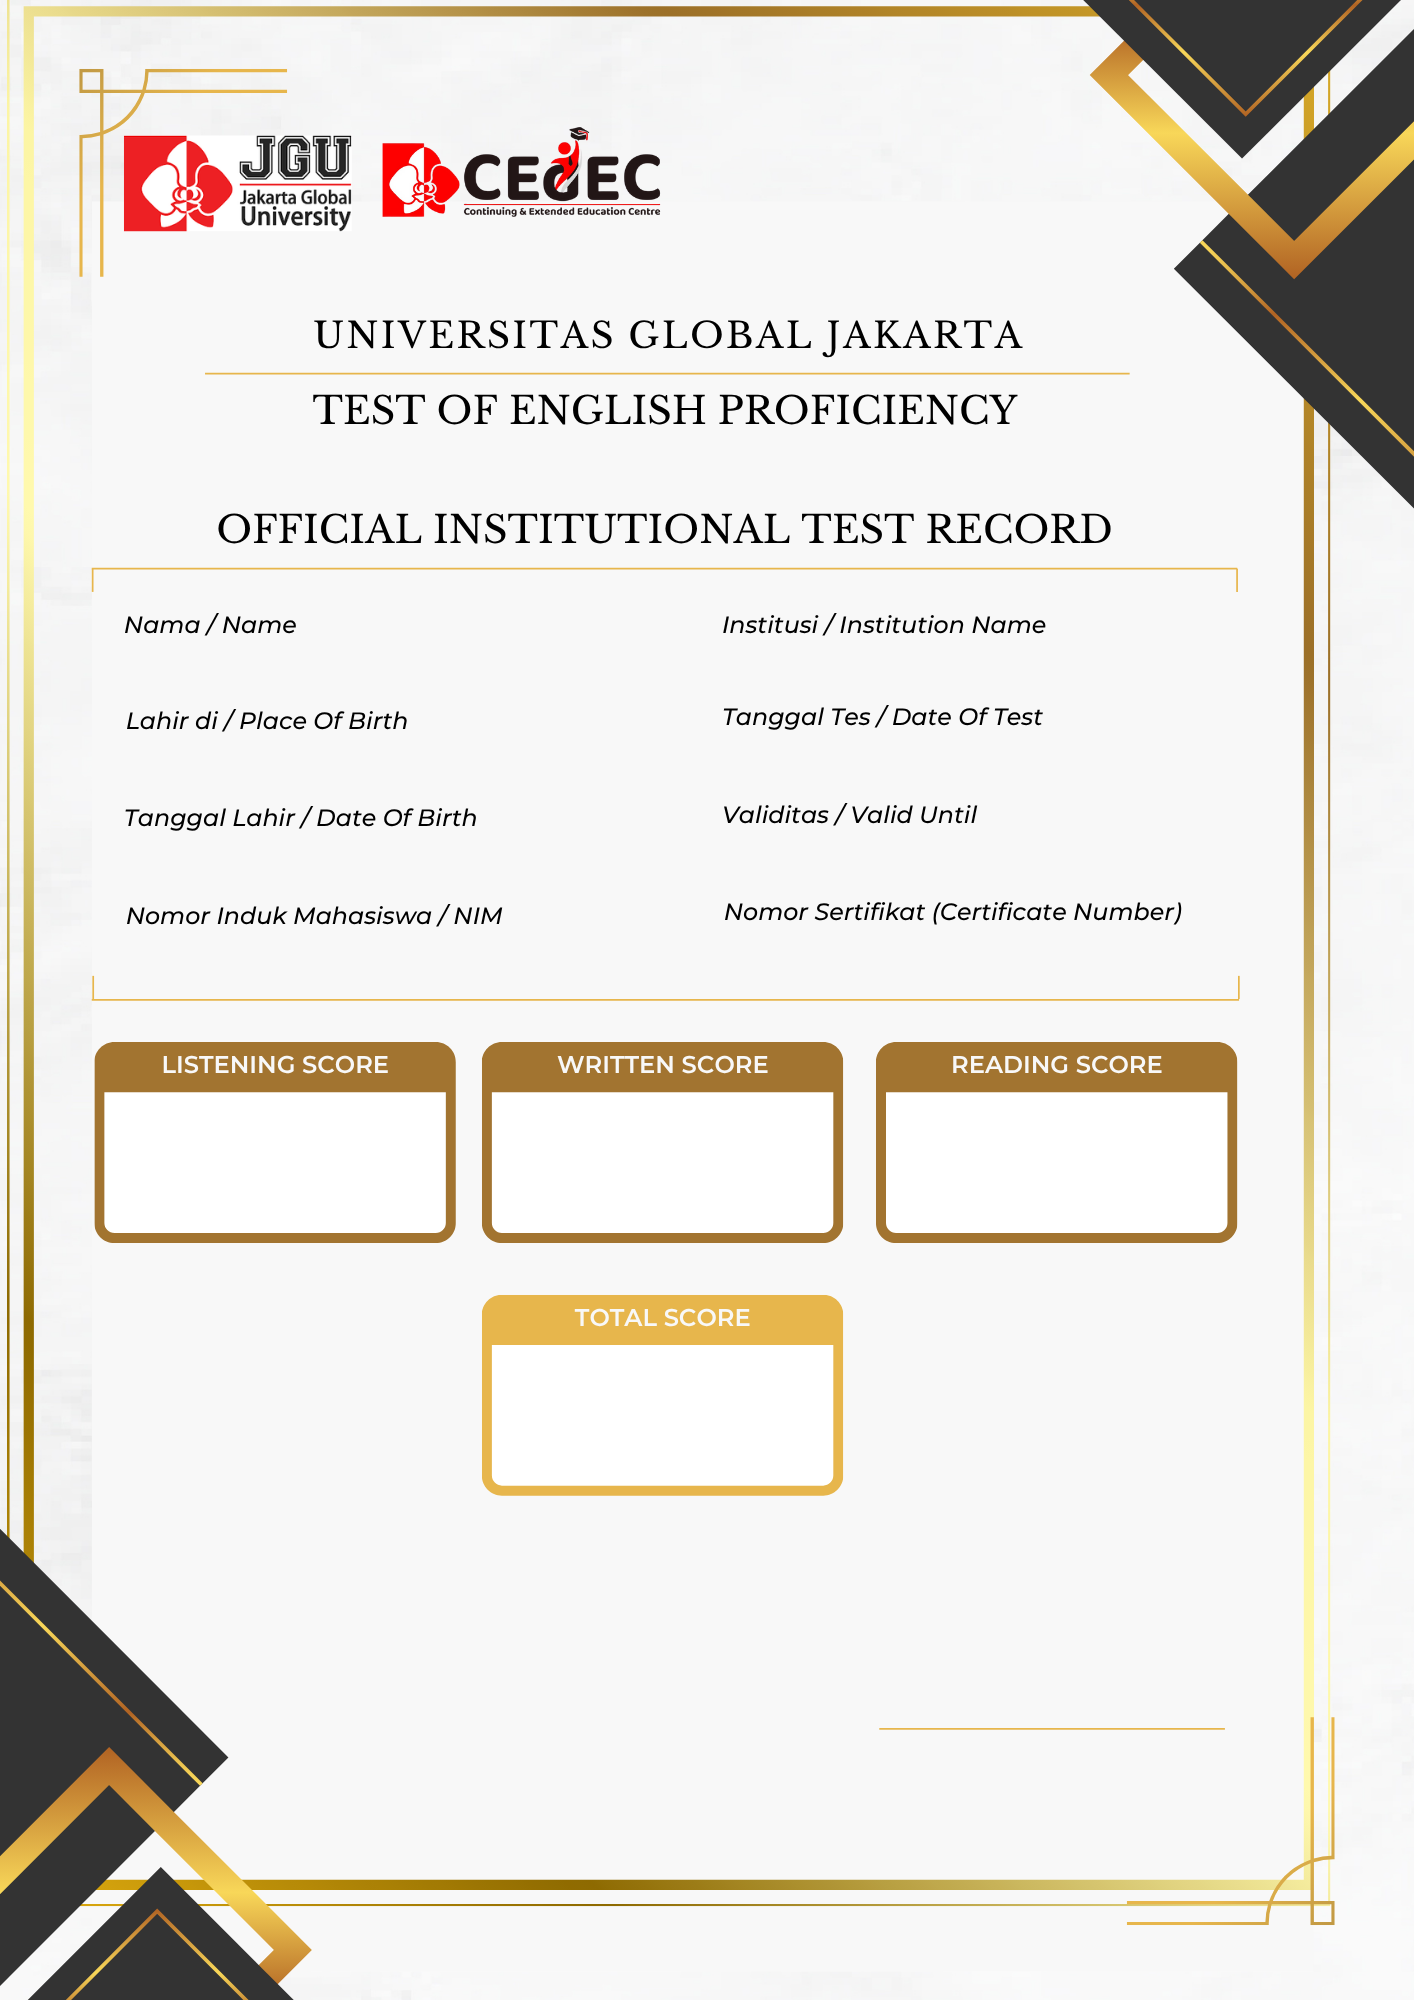
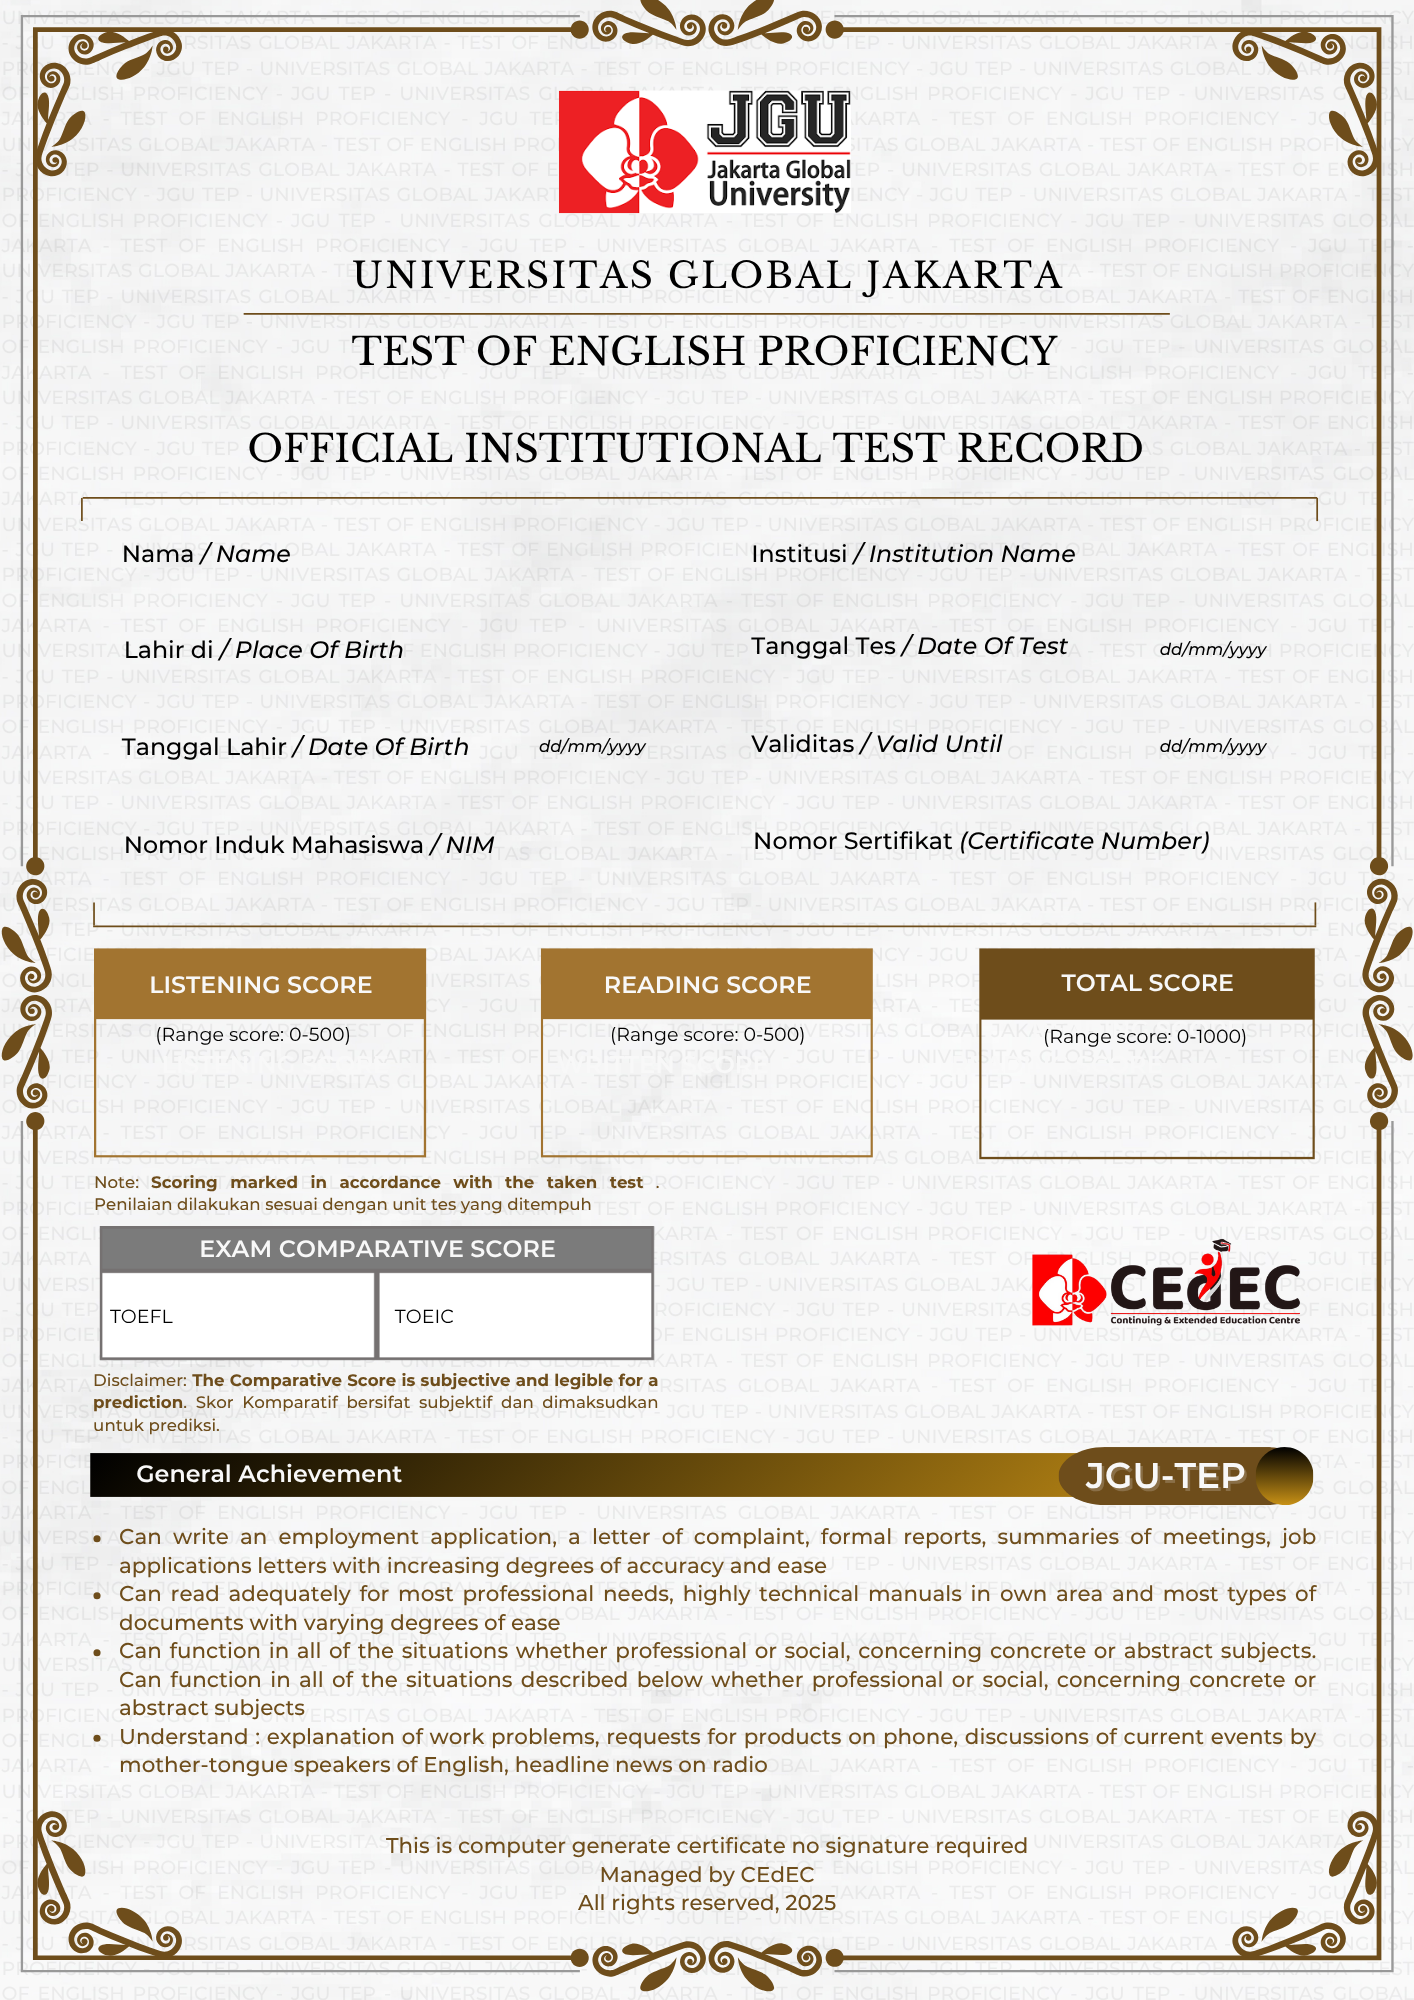
update template

Changed region(s): [[0.0, 0.0, 1.0, 1.0], [0.529, 0.31, 0.7468, 0.372], [0.0934, 0.248, 0.1245, 0.279]]

diff --git a/app/Http/Controllers/CertificateController.php b/app/Http/Controllers/CertificateController.php
@@ -79,12 +79,13 @@ class CertificateController extends Controller
     public function storeScoreAndGenerate(Request $request, $id, Generator $qr)
     {
         $request->validate([
-            'listening' => 'required|numeric|min:0|max:100',
-            'structure' => 'required|numeric|min:0|max:100',
-            'reading' => 'required|numeric|min:0|max:100',
+            'listening' => 'required|numeric|min:0|max:500',
+            'reading' => 'required|numeric|min:0|max:500',
+            'toefl' => 'required|numeric|min:0|max:500',
+            'toeic' => 'required|numeric|min:0|max:500',
         ]);
 
-        $totalScore = $request->listening + $request->structure + $request->reading;
+        $totalScore = $request->listening + $request->reading;
 
         $participant = CreateCertificate::findOrFail($id);
 
@@ -98,19 +99,20 @@ class CertificateController extends Controller
         $fontPath = public_path('fonts/OpenSans-Regular.ttf');
         if (!file_exists($fontPath)) $fontPath = null;
 
-        $img->text(strtoupper($participant->name), 122, 655, fn($f) => $this->applyFont($f, $fontPath));
-        $img->text(strtoupper($participant->birth_place), 122, 750, fn($f) => $this->applyFont($f, $fontPath));
-        $img->text(strtoupper($participant->birth_date), 122, 850, fn($f) => $this->applyFont($f, $fontPath));
-        $img->text(strtoupper($participant->student_id), 122, 945, fn($f) => $this->applyFont($f, $fontPath));
-        $img->text(strtoupper($participant->institution), 720, 655, fn($f) => $this->applyFont($f, $fontPath));
-        $img->text($participant->certificate_number, 720, 940, fn($f) => $this->applyFont($f, $fontPath));
-        $img->text(Carbon::parse($participant->test_date)->format('d/m/Y'), 720, 745, fn($f) => $this->applyFont($f, $fontPath));
-        $img->text(strtoupper($participant->validity), 720, 845, fn($f) => $this->applyFont($f, $fontPath));
+        $img->text(strtoupper($participant->name), 122, 580, fn($f) => $this->applyFont($f, $fontPath));
+        $img->text(strtoupper($participant->birth_place), 122, 675, fn($f) => $this->applyFont($f, $fontPath));
+        $img->text(Carbon::parse($participant->birth_date)->format('d/m/Y'), 122, 775, fn($f) => $this->applyFont($f, $fontPath));
+        $img->text(strtoupper($participant->student_id), 122, 870, fn($f) => $this->applyFont($f, $fontPath));
+        $img->text(strtoupper($participant->institution), 750, 580, fn($f) => $this->applyFont($f, $fontPath));
+        $img->text($participant->certificate_number, 750, 865, fn($f) => $this->applyFont($f, $fontPath));
+        $img->text(Carbon::parse($participant->test_date)->format('d/m/Y'), 750, 675, fn($f) => $this->applyFont($f, $fontPath));
+        $img->text(Carbon::parse($participant->validity)->format('d/m/Y'),750, 770, fn($f) => $this->applyFont($f, $fontPath));
 
-        $img->text($request->listening, 255, 1130, fn($f) => $this->applyFont($f, $fontPath, 80, 'center'));
-        $img->text($request->structure, 655, 1130, fn($f) => $this->applyFont($f, $fontPath, 80, 'center'));
-        $img->text($request->reading, 1055, 1130, fn($f) => $this->applyFont($f, $fontPath, 80, 'center'));
-        $img->text($totalScore, 655, 1390, fn($f) => $this->applyFont($f, $fontPath, 80, 'center'));
+        $img->text($request->listening, 255, 1065, fn($f) => $this->applyFont($f, $fontPath, 80, 'center'));
+        $img->text($request->reading, 700, 1065, fn($f) => $this->applyFont($f, $fontPath, 80, 'center'));
+        $img->text($request->toefl, 260, 1290, fn($f) => $this->applyFont($f, $fontPath, 60, 'center'));
+        $img->text($request->toeic, 550, 1290, fn($f) => $this->applyFont($f, $fontPath, 60, 'center'));
+        $img->text($totalScore, 1135, 1065, fn($f) => $this->applyFont($f, $fontPath, 80, 'center'));
 
         $fileName = 'certificate_' . uniqid() . '.png';
         $outputPath = public_path('generated_certificates/' . $fileName);
@@ -118,9 +120,9 @@ class CertificateController extends Controller
 
         $url = route('certificate.view', ['id' => $participant->id]);
         $qrPath = public_path('generated_certificates/qr_' . $participant->id . '.png');
-        file_put_contents($qrPath, $qr->format('png')->size(250)->generate($url));
+        file_put_contents($qrPath, $qr->format('png')->size(200)->generate($url));
         $qrImage = $imageManager->read($qrPath);
-        $img->place($qrImage, 'bottom-left', 250, 200);
+        $img->place($qrImage, 'bottom-left', 740, 600);
         $img->save($outputPath);
 
                 // 🔐 Enkripsi nama peserta
@@ -137,7 +139,8 @@ class CertificateController extends Controller
             $participant->test_date,
             $participant->validity,
             $request->listening,
-            $request->structure,
+            $request->toefl,
+            $request->toeic,
             $request->reading,
             $totalScore,
         ]);
@@ -145,7 +148,8 @@ class CertificateController extends Controller
 
         $participant->update([
             'listening' => $request->listening,
-            'structure' => $request->structure,
+            'toefl' => $request->toefl,
+            'toeic' => $request->toeic,
             'reading' => $request->reading,
             'score' => $totalScore,
             'file_name' => $fileName,
@@ -175,7 +179,8 @@ class CertificateController extends Controller
             $certificate->test_date,
             $certificate->validity,
             $certificate->listening,
-            $certificate->structure,
+            $certificate->toefl,
+            $certificate->toeic,
             $certificate->reading,
             $certificate->score,
         ]);

diff --git a/resources/views/certificate/view.blade.php b/resources/views/certificate/view.blade.php
@@ -2,11 +2,19 @@
 <html>
 <head>
     <title>Detail Sertifikat</title>
-    <h3>Detail Sertifikat</h3>
+    <h1>DETAIL OF CERTIFICATE</h1>
     <link rel="stylesheet" href="https://cdn.jsdelivr.net/npm/bootstrap@5.3.0/dist/css/bootstrap.min.css">
     <style>
-        .justify-text {
-            text-align: justify;
+        table {
+            width: 100%;
+        }
+        td {
+            padding: 4px 8px;
+            vertical-align: top;
+        }
+        td:first-child {
+            white-space: nowrap;
+            width: 220px;
         }
     </style>
 </head>
@@ -17,7 +25,6 @@
         <div class="alert alert-success">
             Sertifikat ini <strong>valid</strong> ✅
         </div>
-
     @else
         <div class="alert alert-danger">
             Sertifikat ini <strong>tidak valid</strong> ❌ — data kemungkinan telah diubah atau rusak.
@@ -25,41 +32,69 @@
     @endif
 
     <div class="row">
-        <div class="col-md-6">
-            <p><strong>Nomor Sertifikat:</strong> {{ $certificate->certificate_number }}</p>
-
-            {{-- 🔐 Gunakan nama hasil dekripsi jika valid --}}
-            <p><strong>Nama Peserta:</strong>
-                {{ isset($valid) && $valid ? $decrypted_name : 'Tidak dapat ditampilkan' }}
-            </p>
-
-            <p><strong>Nama Kegiatan:</strong> TOEFL Prediction Test</p>
-            <p><strong>Tanggal Tes:</strong> {{ \Carbon\Carbon::parse($certificate->test_date)->format('d/m/Y') }}</p>
-            <p><strong>Validitas:</strong> {{ $certificate->validity }}</p>
+        <div class="col-md-8">
+            <table>
+                <tr>
+                    <td><strong>Nomor Sertifikat</strong></td>
+                    <td>: {{ $certificate->certificate_number }}</td>
+                </tr>
+                <tr>
+                    <td><strong>Nama Peserta</strong></td>
+                    <td>: {{ isset($valid) && $valid ? $decrypted_name : 'Tidak dapat ditampilkan' }}</td>
+                </tr>
+                <tr>
+                    <td><strong>Nama Kegiatan</strong></td>
+                    <td>: TOEFL Prediction Test</td>
+                </tr>
+                <tr>
+                    <td><strong>Tanggal Tes</strong></td>
+                    <td>: {{ \Carbon\Carbon::parse($certificate->test_date)->format('d F Y') }}</td>
+                </tr>
+                <tr>
+                    <td><strong>Validitas</strong></td>
+                    <td>: {{ $certificate->validity }}</td>
+                </tr>
+            </table>
         </div>
     </div>
 
     @if (isset($valid) && $valid)
-    <hr>
-    <h3>Rincian Skor</h3>
-    <div class="row">
-        <div class="col-md-4">
-            <p><strong>Listening Comprehension:</strong> {{ $certificate->listening }}</p>
-            <p><strong>Structure & Written Expression:</strong> {{ $certificate->structure }}</p>
-            <p><strong>Reading Comprehension:</strong> {{ $certificate->reading }}</p>
-            <p><strong>Total Score:</strong> {{ $certificate->score }}</p>
+        <hr>
+        <h3>DETAIL SCORE</h3>
+        <div class="row">
+            <div class="col-md-6">
+                <table>
+                    <tr>
+                        <td><strong>Listening Comprehension</strong></td>
+                        <td>: {{ $certificate->listening }}</td>
+                    </tr>
+                    <tr>
+                        <td><strong>Reading Comprehension</strong></td>
+                        <td>: {{ $certificate->reading }}</td>
+                    </tr>
+                    <tr>
+                        <td><strong>Total Score</strong></td>
+                        <td>: {{ $certificate->score }}</td>
+                    </tr>
+                    <tr>
+                        <td><strong>TOEFL</strong></td>
+                        <td>: {{ $certificate->toefl }}</td>
+                    </tr>
+                    <tr>
+                        <td><strong>TOEIC</strong></td>
+                        <td>: {{ $certificate->toeic }}</td>
+                    </tr>
+                </table>
+            </div>
         </div>
-    </div>
     @endif
 
-     <div class="mt-4 p-4 bg-success bg-opacity-10 border border-success rounded shadow-sm text-center">
-            <h2 class="text-success fw-bold mb-1">
-                CEdEC Verified
-            </h2>
-            <p class="text-muted mb-0">
-                Sertifikat ini telah diverifikasi dan dinyatakan valid oleh sistem CEdEC.
-            </p>
-        </div>
+    <div class="mt-4 p-4 bg-success bg-opacity-10 border border-success rounded shadow-sm text-center">
+        <h2 class="text-success fw-bold mb-1">CEdEC Verified</h2>
+        <p class="text-muted mb-0">
+            Sertifikat ini telah diverifikasi dan dinyatakan valid oleh sistem CEdEC.
+        </p>
+    </div>
 
 </body>
 </html>

diff --git a/resources/views/certificate/score_form.blade.php b/resources/views/certificate/score_form.blade.php
@@ -8,15 +8,30 @@
 
         <div class="mb-3">
             <label for="listening" class="form-label">Listening Comprehension:</label>
-            <input type="number" name="listening" class="form-control" required>
+            <input type="number" name="listening" class="form-control score-input" max="500" required>
+            <div class="warning-text">⚠ Nilai melebihi batas maksimum 500</div>
         </div>
-        <div class="mb-3">
-            <label for="structure" class="form-label">Structure & Written Expression:</label>
-            <input type="number" name="structure" class="form-control" required>
-        </div>
+
         <div class="mb-3">
             <label for="reading" class="form-label">Reading Comprehension:</label>
-            <input type="number" name="reading" class="form-control" required>
+            <input type="number" name="reading" class="form-control score-input" max="500" required>
+            <div class="warning-text">⚠ Nilai melebihi batas maksimum 500</div>
+        </div>
+
+        <div class="mb-3">
+            <label for="toefl" class="form-label">EXAM COMPARATIVE SCORE</label>
+        </div>
+
+        <div class="mb-3">
+            <label for="toefl" class="form-label">TOEFL:</label>
+            <input type="number" name="toefl" class="form-control score-input" max="500" required>
+            <div class="warning-text">⚠ Nilai melebihi batas maksimum 500</div>
+        </div>
+
+        <div class="mb-3">
+            <label for="toeic" class="form-label">TOEIC:</label>
+            <input type="number" name="toeic" class="form-control score-input" max="500" required>
+            <div class="warning-text">⚠ Nilai melebihi batas maksimum 500</div>
         </div>
 
         <div class="d-grid">
@@ -24,4 +39,60 @@
         </div>
     </form>
 </div>
+
+{{-- CSS dan JavaScript --}}
+<style>
+    .score-input {
+        background-image: linear-gradient(to right, #c8e6c9 0%, #c8e6c9 0%, transparent 0%, transparent 100%);
+        background-repeat: no-repeat;
+        background-size: 0% 100%;
+        transition: background-size 0.3s ease, border-color 0.3s ease;
+    }
+
+    .score-input.invalid {
+        border-color: #e53935 !important;
+        background-image: linear-gradient(to right, #ffcdd2 0%, #ffcdd2 100%);
+    }
+
+    .warning-text {
+        color: #e53935;
+        font-size: 0.875rem;
+        display: none;
+        margin-top: 4px;
+    }
+
+    .warning-text.active {
+        display: block;
+    }
+</style>
+
+<script>
+    const maxScore = 400;
+    const hardLimit = 500;
+
+    function updateScoreInput(input) {
+        const val = parseInt(input.value) || 0;
+        const percent = Math.min((val / maxScore) * 100, 100);
+        const warning = input.nextElementSibling;
+
+        if (val > hardLimit) {
+            input.classList.add('invalid');
+            if (warning) warning.classList.add('active');
+        } else {
+            input.classList.remove('invalid');
+            if (warning) warning.classList.remove('active');
+        }
+
+        if (val <= hardLimit) {
+            input.style.backgroundImage = `linear-gradient(to right, #c8e6c9 ${percent}%, transparent ${percent}%)`;
+        }
+    }
+
+    document.addEventListener('DOMContentLoaded', () => {
+        document.querySelectorAll('.score-input').forEach(input => {
+            input.addEventListener('input', () => updateScoreInput(input));
+            updateScoreInput(input); // inisialisasi saat load
+        });
+    });
+</script>
 @endsection

diff --git a/database/migrations/2025_06_18_103750_create_create_certificates_table.php b/database/migrations/2025_06_18_103750_create_create_certificates_table.php
@@ -20,7 +20,8 @@ return new class extends Migration
             $table->string('student_id')->nullable();
             $table->string('institution')->nullable();
             $table->integer('listening')->nullable();
-            $table->integer('structure')->nullable();
+            $table->integer('toefl')->nullable();
+            $table->integer('toeic')->nullable();
             $table->integer('reading')->nullable();
             $table->string('test_date')->nullable();
             $table->integer('score')->nullable(); // total

diff --git a/resources/views/certificate/admin_form.blade.php b/resources/views/certificate/admin_form.blade.php
@@ -13,7 +13,7 @@
 
         <div class="mb-3">
             <label for="validity" class="form-label">Validitas Sertifikat</label>
-            <input type="text" class="form-control" name="validity" required placeholder="cth: 1 Tahun">
+            <input type="date" class="form-control" id="validity" name="validity" placeholder="cth: 26 Juni 2002" value="{{ old('validity') }}"required>
         </div>
 
         <div class="d-grid">

diff --git a/app/Models/CreateCertificate.php b/app/Models/CreateCertificate.php
@@ -21,7 +21,8 @@ class CreateCertificate extends Model
     'certificate_number',
     'listening',
     'reading',
-    'structure',
+    'toefl',
+    'toeic',
     'score',
     'payment_proof',
     'order_number',
